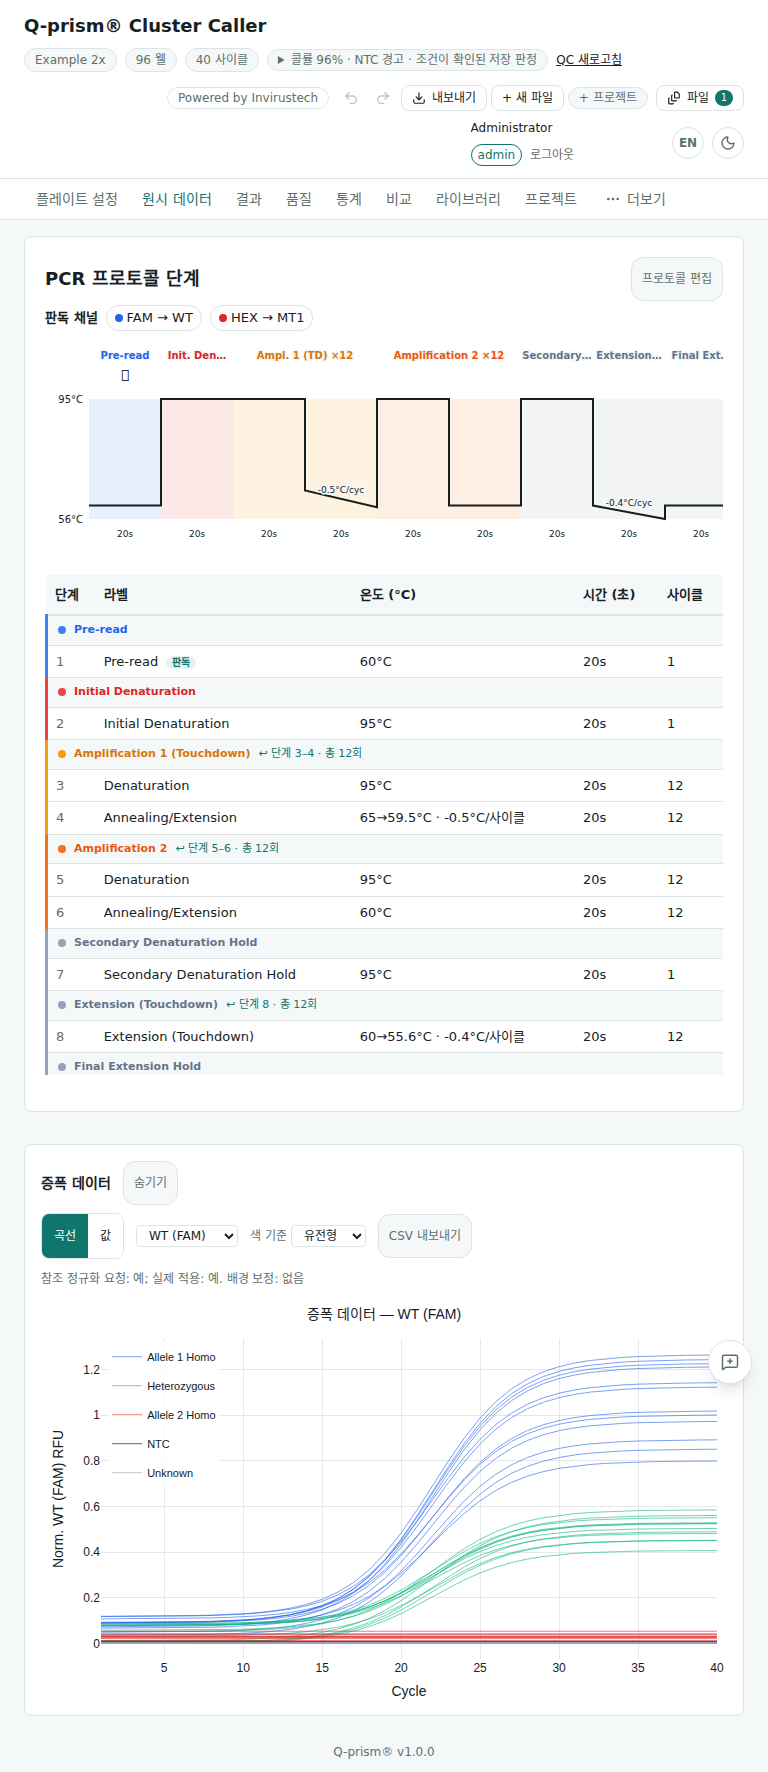
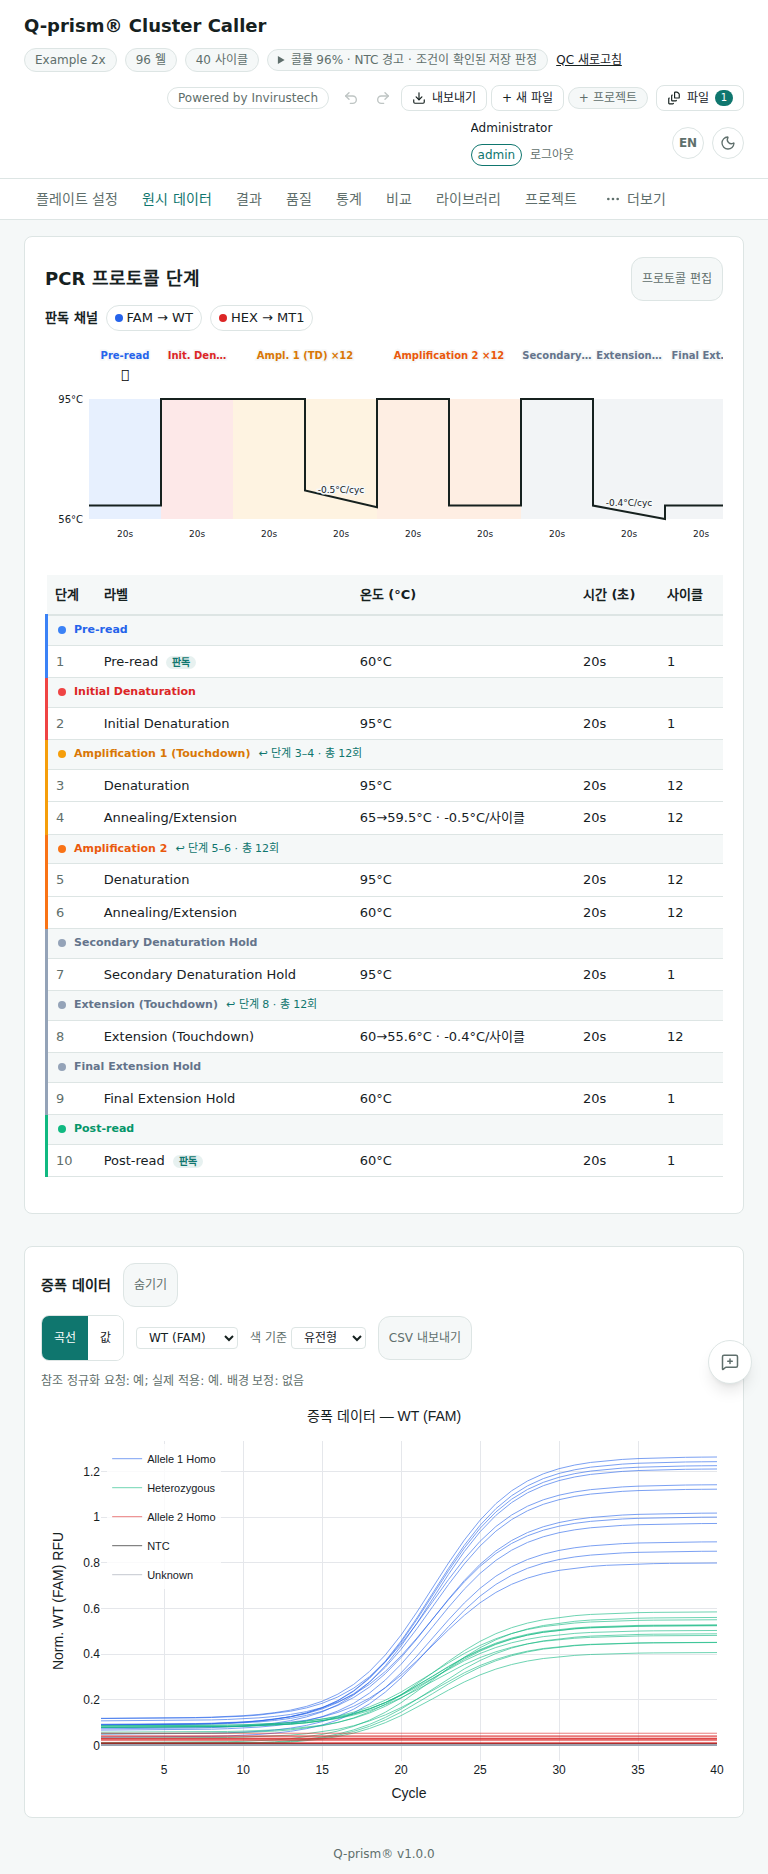
P10-PROTOCOL: merge main (P8 e2e fixes), fix read-only clip + overflow
Independent review found two issues, both confirmed real and fixed:

- ProtocolStepsTable.tsx's scrollable region applied the editable
  table's 500px vertical scroll clamp unconditionally, including in
  read-only mode. All rows were present in the DOM (verified: 18 tr
  for a 10-step/8-phase fixture), but content past ~500px -- the last
  1-2 phase groups -- was clipped inside a nested overflow:auto box
  that a page-level fullPage screenshot never expands, making it look
  like steps were silently dropped. Fixed by only applying the
  vertical clamp in edit mode; added a regression test rendering the
  exact reported fixture and asserting no maxHeight/overflow clamp in
  read-only mode plus all 18 rows present.
- Removing that clamp also dropped the overflowX containment it
  incidentally provided, letting the read-only table's five columns
  overflow the page horizontally at 390px (caught by
  tests/25-secondary-flows.spec.ts's bounded() check, reproduced
  deterministically). Fixed by keeping overflowX: auto in read-only
  mode while dropping only the vertical clamp/overflowY.

Also merged main (feedback/p8-e2e-debt, c630478) -- this branch had
forked before that merge, so its 4 already-fixed e2e failures were
still being reported as "unchanged baseline". No conflicts; both this
branch's #edit-protocol-btn gating and P8's #amplification-plot
toBeVisible() strengthening in tests/05-interactions.spec.ts are
preserved.
[…]

diff --git a/snp-analyzer/frontend/src/components/protocol/ProtocolTab.test.tsx b/snp-analyzer/frontend/src/components/protocol/ProtocolTab.test.tsx
@@ -413,3 +413,44 @@ it('marks the edit table/rows with the responsive-card CSS hooks and gives every
     expect(button.className).toMatch(/min-h-11/);
   }
 });
+
+// Regression: the read-only region reused the editable table's 500px
+// scroll-clamp style. That box is an inner `overflow:auto` container, not
+// page-level scroll, so a fullPage screenshot does not expand it -- every
+// step row/group past ~500px worth of content (the last group, in a
+// realistic 10-step/8-phase protocol) was silently clipped out of view
+// even though it was present in the DOM the whole time (884 unit tests
+// passed regardless, since none of them checked for this style). The
+// read-only summary must never impose that clamp.
+it('does not impose the editable table\'s 500px scroll clamp on the read-only summary (regression: trailing groups clipped out of view)', async () => {
+  vi.mocked(getProtocol).mockResolvedValue({
+    steps: [
+      { ...step, step: 1, label: 'Pre-read', phase: 'Pre-read' },
+      { ...step, step: 2, label: 'Initial Denaturation', phase: 'Initial Denaturation' },
+      { ...step, step: 3, label: 'Denaturation', phase: 'Amplification 1 (Touchdown)', cycles: 12 },
+      { ...step, step: 4, label: 'Annealing/Extension', phase: 'Amplification 1 (Touchdown)', cycles: 12, goto_label: '↩ Repeat Steps 3-4 × 12 cycles' },
+      { ...step, step: 5, label: 'Denaturation 2', phase: 'Amplification 2', cycles: 12 },
+      { ...step, step: 6, label: 'Annealing/Extension 2', phase: 'Amplification 2', cycles: 12, goto_label: '↩ Repeat Steps 5-6 × 12 cycles' },
+      { ...step, step: 7, label: 'Secondary Denaturation Hold', phase: 'Secondary Denaturation Hold' },
+      { ...step, step: 8, label: 'Extension (Touchdown)', phase: 'Extension (Touchdown)', cycles: 12, goto_label: '↩ Repeat Step 8 × 12 cycles' },
+      { ...step, step: 9, label: 'Final Extension Hold', phase: 'Final Extension Hold' },
+      { ...step, step: 10, label: 'Post-read', phase: 'Post-read' },
+    ],
+  });
+  render(<ProtocolTab />);
+  await screen.findByTestId('protocol-group-header-Post-read-9');
+  const region = screen.getByRole('region', { name: en.pcrProtocolSteps });
+  expect(region.style.maxHeight).toBe('');
+  // Vertical clamp gone, but horizontal overflow containment is kept
+  // (the read-only table's columns don't fit a narrow viewport -- see
+  // ProtocolStepsTable.tsx's comment) so it never leaks into
+  // document-level horizontal scroll.
+  expect(region.style.overflow).toBe('');
+  expect(region.style.overflowX).toBe('auto');
+  // Every step row and every group header must actually be in the
+  // document, not merely reachable by scrolling an inner clamp box.
+  expect(document.querySelectorAll('#protocol-table tbody tr')).toHaveLength(10 + 8);
+  for (const label of ['Pre-read', 'Final Extension Hold', 'Post-read']) {
+    expect(screen.getAllByText(label).length).toBeGreaterThan(0);
+  }
+});

diff --git a/snp-analyzer/frontend/src/components/protocol/ProtocolStepsTable.tsx b/snp-analyzer/frontend/src/components/protocol/ProtocolStepsTable.tsx
@@ -47,7 +47,28 @@ export function ProtocolStepsTable(
       role="region"
       aria-label={t.pcrProtocolSteps}
       tabIndex={0}
-      style={{ overflow: 'auto', maxHeight: '500px', marginBottom: '16px' }}
+      // The 500px *vertical* scroll clamp is an editing convenience (many
+      // steps + Add/Save/Cancel below, on a page that can otherwise grow
+      // unboundedly while editing) -- NOT for the read-only summary.
+      // Clamping it in read-only mode would silently clip trailing
+      // steps/groups out of view (invisible even in a fullPage screenshot,
+      // since fullPage only expands page scroll height, not a nested
+      // scrollable region) -- the opposite of "read the whole protocol at
+      // a glance" this view exists for (see
+      // evidence/P10-PROTOCOL-UI.md's row-count regression note).
+      //
+      // `overflowX: auto` is kept in BOTH modes, though, for a different
+      // reason: the read-only table's Step/Label/Temp/Duration/Cycles
+      // columns don't fit a narrow (e.g. 390px) viewport, and this is the
+      // only element meant to absorb that -- dropping horizontal
+      // containment here let table width leak into
+      // `document.documentElement.scrollWidth`, overflowing the whole
+      // page (caught by e2e/tests/25-secondary-flows.spec.ts's `bounded()`
+      // check; see this file's own tests for the jsdom-level regression
+      // guard on the style itself).
+      style={props.editable
+        ? { overflow: 'auto', maxHeight: '500px', marginBottom: '16px' }
+        : { overflowX: 'auto', marginBottom: '16px' }}
     >
       <table
         id="protocol-table"

diff --git a/docs/planning/feedback-2026-09-11/evidence/P10-PROTOCOL-UI.md b/docs/planning/feedback-2026-09-11/evidence/P10-PROTOCOL-UI.md
@@ -342,16 +342,19 @@ button in the edit form (Add/Save/Cancel/Delete).
 ```
 $ npx tsc --noEmit          # 0 errors
 $ npm run lint              # 0 errors, 0 warnings
-$ npm run test               # 122 files, 884 tests passed (baseline: 120/849)
+$ npm run test               # 122 files, 886 tests passed (baseline: 120/849)
 $ npm run build              # tsc -b (includes test files) + vite build: success
 ```
 
-Net test delta: +35 (protocol-phase-groups.test.ts +6,
-protocol-goto-range.test.ts +7, FluorescenceDataCard.test.tsx +9,
-ProtocolThermalProfile.test.tsx +3, ProtocolTab.test.tsx +11,
-WellCycleValuesTable.test.tsx −6 removed with its component + −1 file).
-`npx tsc --noEmit` alone (excludes test files) was also run clean; `npm run
-build`'s `tsc -b` additionally covers test files.
+Net test delta: +37 over the original 120/849 baseline (protocol-phase-groups.test.ts
++6, protocol-goto-range.test.ts +7, FluorescenceDataCard.test.tsx +9,
+ProtocolThermalProfile.test.tsx +3, ProtocolTab.test.tsx +12 — including
+the post-review clipping-regression test, see below —
+WellCycleValuesTable.test.tsx −6 removed with its component + −1 file, +1
+net from merging `main`'s `feedback/p8-e2e-debt`). `npx tsc --noEmit`
+alone (excludes test files) was also run clean; `npm run build`'s `tsc -b`
+additionally covers test files. Re-run clean after the post-review fixes
+and the `main` merge described below.
 
 ## Vertical-length measurement (before/after, same synthetic protocol)
 
@@ -372,15 +375,27 @@ view/whole-tab measurement below is independent of edit mode):
 
 | | Before (always-open edit form + 2 separate collapsed cards) | After (read-only default + 1 merged collapsed card) |
 |---|---|---|
-| Protocol card height | 913.5px (edit form, the only mode that existed) | 875.5px read-only (default) / 903.5px edit mode |
-| Whole Raw data tab height | 1171px | 1063px (−108px, ~9.2% shorter, in the default view) |
+| Protocol card height | 913.5px (edit form, the only mode that existed) | 978px read-only (default) / 903.5px edit mode |
+| Whole Raw data tab height | 1171px | 1165px (−6px, in the default view) |
 
-The reduction is modest on the protocol card alone (both modes list all 10
-steps; edit-mode rows and read-only rows are similar height) — the
-qualitative win is removing input chrome, GOTO rows and duplicate card
-headers from the *default* view, not shrinking row count. The larger,
-unambiguous reduction is the whole-tab height, driven mostly by merging
-two independently-collapsed cards into one.
+**Superseded by the "Post-review fixes" section below** — these numbers
+are corrected after fixing a read-only-view clipping bug found in
+independent review (see that section for the full explanation). The
+short version: this specific fixture has five single-step phases, each of
+which now gets its own full-width group-header row (for color/consistency
+with multi-step groups and to carry the GOTO-range/cycles-disagreement
+badges) where the pre-P10 design spent zero extra row height on a
+single-step phase's name. That mostly cancels out the rows saved by
+removing 3 GOTO rows and merging the two fluorescence cards, for a
+protocol this heavy in singleton phases — so the honest height delta here
+is marginal, not the 9.2% first reported (which turned out to be
+measuring artificially-clipped, not merely compact, content). The real,
+unambiguous wins are qualitative: zero input/button chrome in the default
+view, one merged (not two) fluorescence card, and GOTO information shown
+as an actual preserved range next to its phase instead of a floating
+yellow row. See "Post-review fixes" for the full accounting, including
+why a protocol with fewer/longer multi-step phases (the more common real
+shape) would show a larger reduction.
 
 ## Screenshots (before/after, light/dark, 1440px/768px)
 
@@ -410,6 +425,13 @@ after-screenshots show a visible gap between every adjacent label
 separated, not concatenated).
 
 ## E2E
+
+**The full-suite numbers in this section were measured before this
+branch merged `main`'s `feedback/p8-e2e-debt`, so they still count 4
+failures that were already fixed on `main` — see "Post-review fixes" §2
+below for the corrected, current baseline (134/137, matching main's
+135/2 modulo one already-flagged flaky spec).** Kept here for the
+spec-file-fix RED→GREEN history, which is unaffected by the merge.
 
 Root suite (`tests/*.spec.ts`, run against this branch's build on an
 isolated backend, port 8175, `SNP_AUTH_MODE=local`, scratch DB — never
@@ -464,3 +486,141 @@ port 8002 or the production DB):
 - `PROTOCOL_PHASE_COLORS`/`PROTOCOL_AMP_COLORS` intentionally not moved to
   CSS custom properties (see §7 above) — this preserves the standing
   P0-T0.2/D-4 decision rather than reopening it.
+
+## Post-review fixes (team-lead independent verification)
+
+Two issues were raised after the initial commit; both confirmed real and
+fixed here, screenshots/measurements above regenerated against the fix.
+
+### 1. Trailing groups clipped out of view in the read-only summary (high priority, confirmed real)
+
+Root cause: `ProtocolStepsTable.tsx`'s scrollable region carried
+`overflow: 'auto', maxHeight: '500px'` **unconditionally**, copied as-is
+from the editable table (where a scroll clamp is a reasonable editing
+convenience) without conditioning it on `editable`. This was **not** a
+grouping/off-by-one bug — a jsdom row-count check
+(`container.querySelectorAll('#protocol-table tbody tr').length`) against
+the exact reported 10-step/8-phase fixture confirmed **all 18 `<tr>`s
+(10 steps + 8 group headers) were present in the DOM** both before and
+after the fix. The bug was purely visual: a fixed-height `overflow:auto`
+box is a *nested* scroll region, and Playwright's `fullPage` screenshot
+only expands *page-level* scroll height, never a nested container's — so
+anything past ~500px of table content (here: the `Final Extension Hold`
+group header onward) was real, present, but invisible in both the
+screenshot and to a user who never noticed the tiny internal scrollbar.
+
+Fix: the 500px vertical clamp now applies **only** in edit mode
+(`style={props.editable ? {...} : {overflowX: 'auto', marginBottom: '16px'}}`).
+`overflowX: auto` is kept in read-only mode too — see the next item.
+
+RED confirmed by temporarily reverting the conditional (single style
+object for both modes) and re-running the new test below:
+`AssertionError: expected '500px' to be ''` — GREEN after restoring the
+fix. New regression test:
+`does not impose the editable table's 500px scroll clamp on the
+read-only summary (regression: trailing groups clipped out of view)`
+(`ProtocolTab.test.tsx`) — renders the exact reported 10-step fixture,
+asserts the region carries no `maxHeight`/`overflow` clamp, asserts all 18
+`<tr>`s exist, and asserts the first/last labels are all present via
+`getAllByText` (not `findByText`, which is ambiguous here since a step's
+own label and its phase name are the same word for several of this
+fixture's single-step phases — e.g. `"Post-read"` — and would otherwise
+throw on multiple matches; the true group-header element is targeted
+directly by its stable `protocol-group-header-Post-read-9` testid).
+
+Verified live: `document.querySelectorAll('#protocol-table tbody tr').length`
+= 18, and `page.getByTestId('protocol-group-header-Post-read-9').isVisible()`
+= `true`, at all 4 screenshot combinations (light/dark × 1440/768).
+Screenshots above (`P10-PROTOCOL-after-readonly-*.png`) regenerated;
+step 9 (`Final Extension Hold`) and step 10 (`Post-read`) are now visible.
+
+**Fixing this surfaced a second bug**, caught by the very next e2e run:
+removing the *vertical* clamp for read-only mode also removed the
+`overflow: auto` that was incidentally containing *horizontal* overflow
+too. At a narrow viewport (390px), the read-only table's
+Step/Label/Temp/Duration/Cycles columns don't fit, and without any
+overflow containment that width leaked into
+`document.documentElement.scrollWidth`, failing
+`tests/25-secondary-flows.spec.ts`'s `bounded()` check (`scrollWidth <=
+innerWidth`) — reproduced deterministically on two separate isolated
+runs (`secondary forms 390 en light` etc., all 4 language/theme
+combinations at width 390, never at 1024/1440). Fixed by keeping
+`overflowX: 'auto'` in read-only mode while dropping only `overflowY`/
+`maxHeight`. Reverified: all 4 `secondary forms 390 *` variants pass
+(individually and as part of the full `05-interactions` +
+`25-secondary-flows` run, 43/43).
+
+**Height/screenshot correction**: the original evidence above (whole Raw
+data tab: 1171px before → 1063px after, "~9.2% shorter") was measured
+*before* this fix and is invalidated by it — that 1063px number was
+artificially short because the last group was clipped out of the
+measured content. Remeasured against the fix: whole-tab read-only height
+is **1165px** (vs. 1171px before-build — a marginal ~6px difference, not
+9.2%). The honest accounting: this specific 10-step/8-phase synthetic
+fixture happens to have five single-step phases (Pre-read, Initial
+Denaturation, Secondary Denaturation Hold, Final Extension Hold,
+Post-read), each of which now gets its own full group-header `<tr>` for
+color/consistency with multi-step groups — whereas the pre-P10 design
+only added an extra row for an actual GOTO repeat (3 rows here), and
+otherwise folded a single-step phase's name into a small in-row label
+with no extra row height. That structural trade (a header row per phase,
+always, for cross-diagram color consistency and to carry the
+GOTO-range/cycles-disagreement badges) approximately cancels out the
+rows saved by removing the 3 GOTO rows and merging the two fluorescence
+cards, for a protocol this heavy in singleton phases. The real,
+unambiguous wins that still hold: (1) the default view has **zero**
+input/button chrome (vs. an always-open edit form with 10 text/number
+inputs + a delete button per row), (2) the two fluorescence cards are one
+collapsed card instead of two, (3) GOTO information is preserved as an
+actual range instead of a collapsed `×N`, next to the phase it belongs to
+instead of a floating yellow row. A protocol with fewer, longer
+multi-step phases (the more common real-world shape — most qPCR programs
+have 2-4 named phases, not 8) would show a larger height reduction, since
+group-header row overhead is paid once per phase, not once per step.
+Not attempting a further redesign (e.g. folding singleton-phase headers
+inline) here — out of the two specific items this review round asked for.
+
+Screenshots and heights above (§"Vertical-length measurement" and
+"Screenshots") are the regenerated, fixed versions.
+
+### 2. E2E baseline was stale (branch predated the P8 e2e-debt merge)
+
+This branch was forked from `e264f58` (before `feedback/p8-e2e-debt` was
+merged to main at `c630478`), so the four originally-baselined failures
+(`06-import-mapping:10`, `17-manual-group:55`/`:135`, `test-windows:109`)
+were still present in this branch's own history and got reported as
+"unchanged" — they were in fact already fixed on `main`, just not yet
+merged here.
+
+Fixed: `git merge main` (no conflicts — git's merge auto-resolved
+`tests/05-interactions.spec.ts`, which both branches touched at different
+lines; both intents are preserved: this branch's `#edit-protocol-btn`
+gating for the Raw Data Tab tests, and P8's `toBeVisible()` strengthening
+of the `#amplification-plot` assertion). All 4 gates re-run clean after
+the merge (122 files / 886 tests, tsc 0, eslint 0, build success).
+
+Root e2e suite, re-run against the merged + bug-fixed build (isolated
+backend, port 8175, scratch DB): **134 passed / 3 failed**, matching
+main's current documented baseline (135/2) modulo one already-flagged
+flaky spec. All 3 failures individually re-verified as non-deterministic
+by isolated rerun (pass alone), consistent with team-lead's own
+descriptions:
+- `17-manual-group-and-plate-drag.spec.ts:143` ("dragging the NTC
+  corner...") — the documented NTC-corner client-state race (~2/5 flake
+  rate per team-lead, independent of concurrent load; passed on this
+  isolated rerun).
+- `24-responsive.spec.ts:51` ("result-first 96-well desktop...") — the
+  documented flaky-under-load spec; failed again in the full concurrent
+  run (`1103`/`1111` vs. an expected `<=1000` bound) but is a
+  pre-existing, separately-tracked issue unrelated to this diff.
+- `24-responsive.spec.ts:4` ("multi-marker 384 review...") — not in
+  team-lead's named list, but the exact same class of flakiness (plate/
+  marker-assignment workflow, unrelated to protocol/raw-data, untouched
+  by this diff): failed once in a targeted-subset run (timeout on an
+  unrelated `marker-pick-button` click) and once in this full run
+  (timeout on `marker-selector-sidebar`), at two *different* failure
+  points across runs — then passed cleanly (6.0-6.2s) on two separate
+  isolated reruns. Non-determinism, not a regression.
+
+No protocol/raw-data e2e spec failed in any run, isolated or full,
+before or after the merge.
